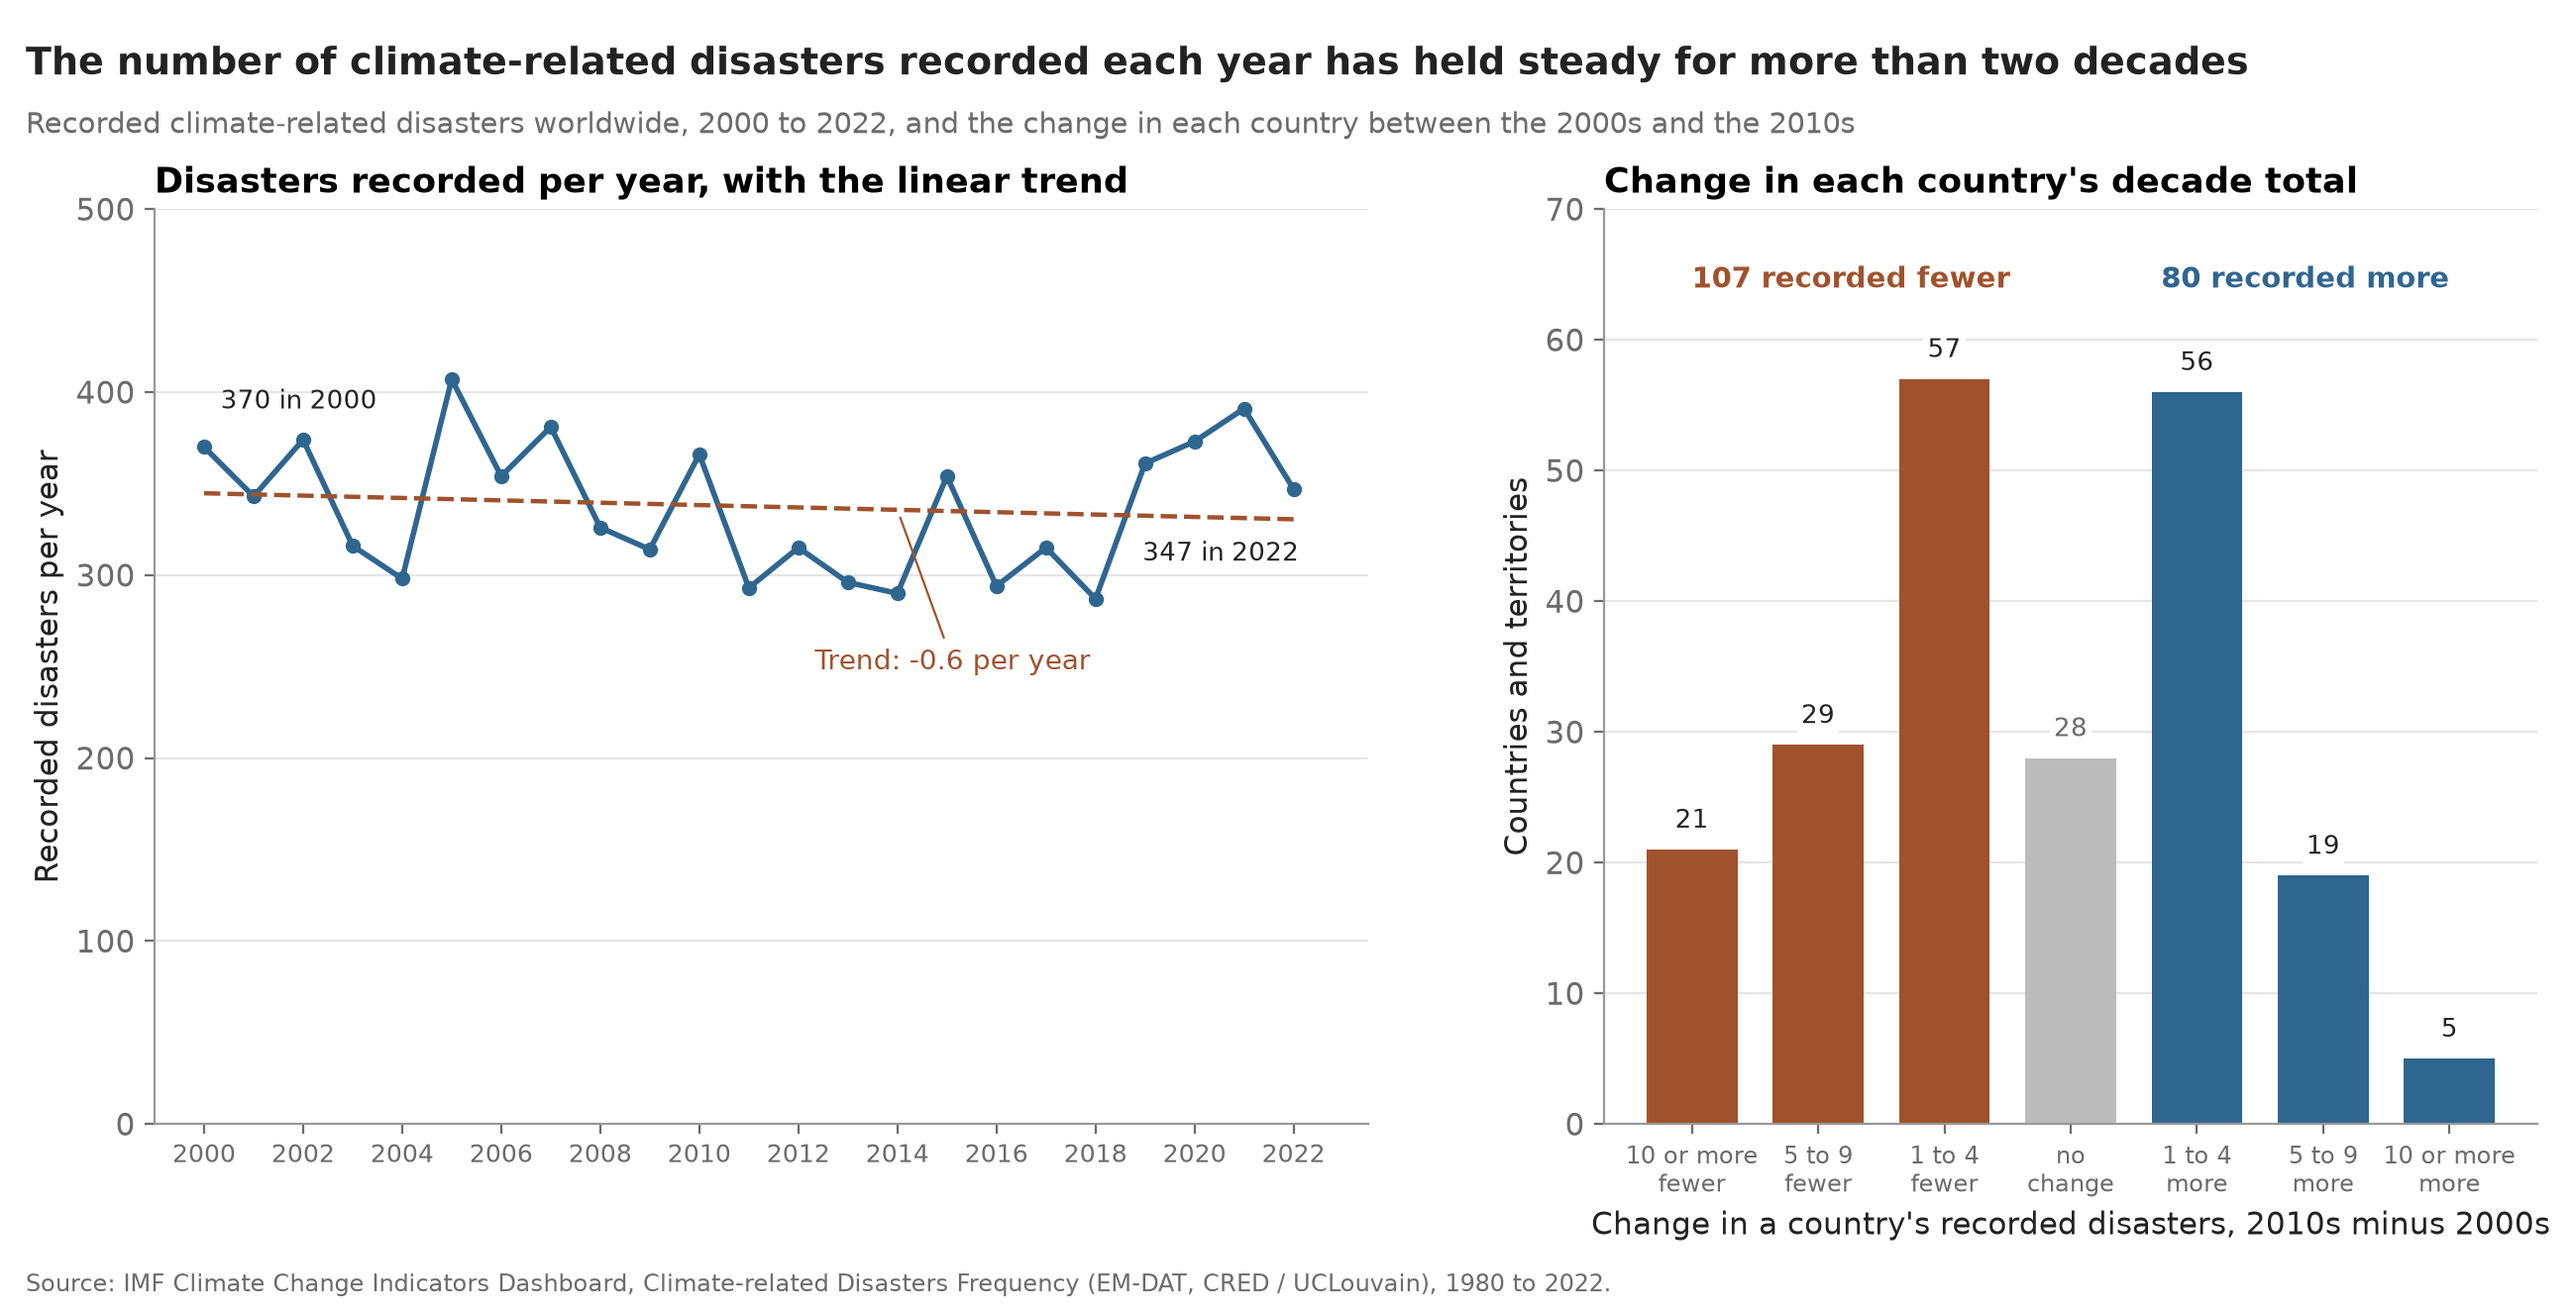
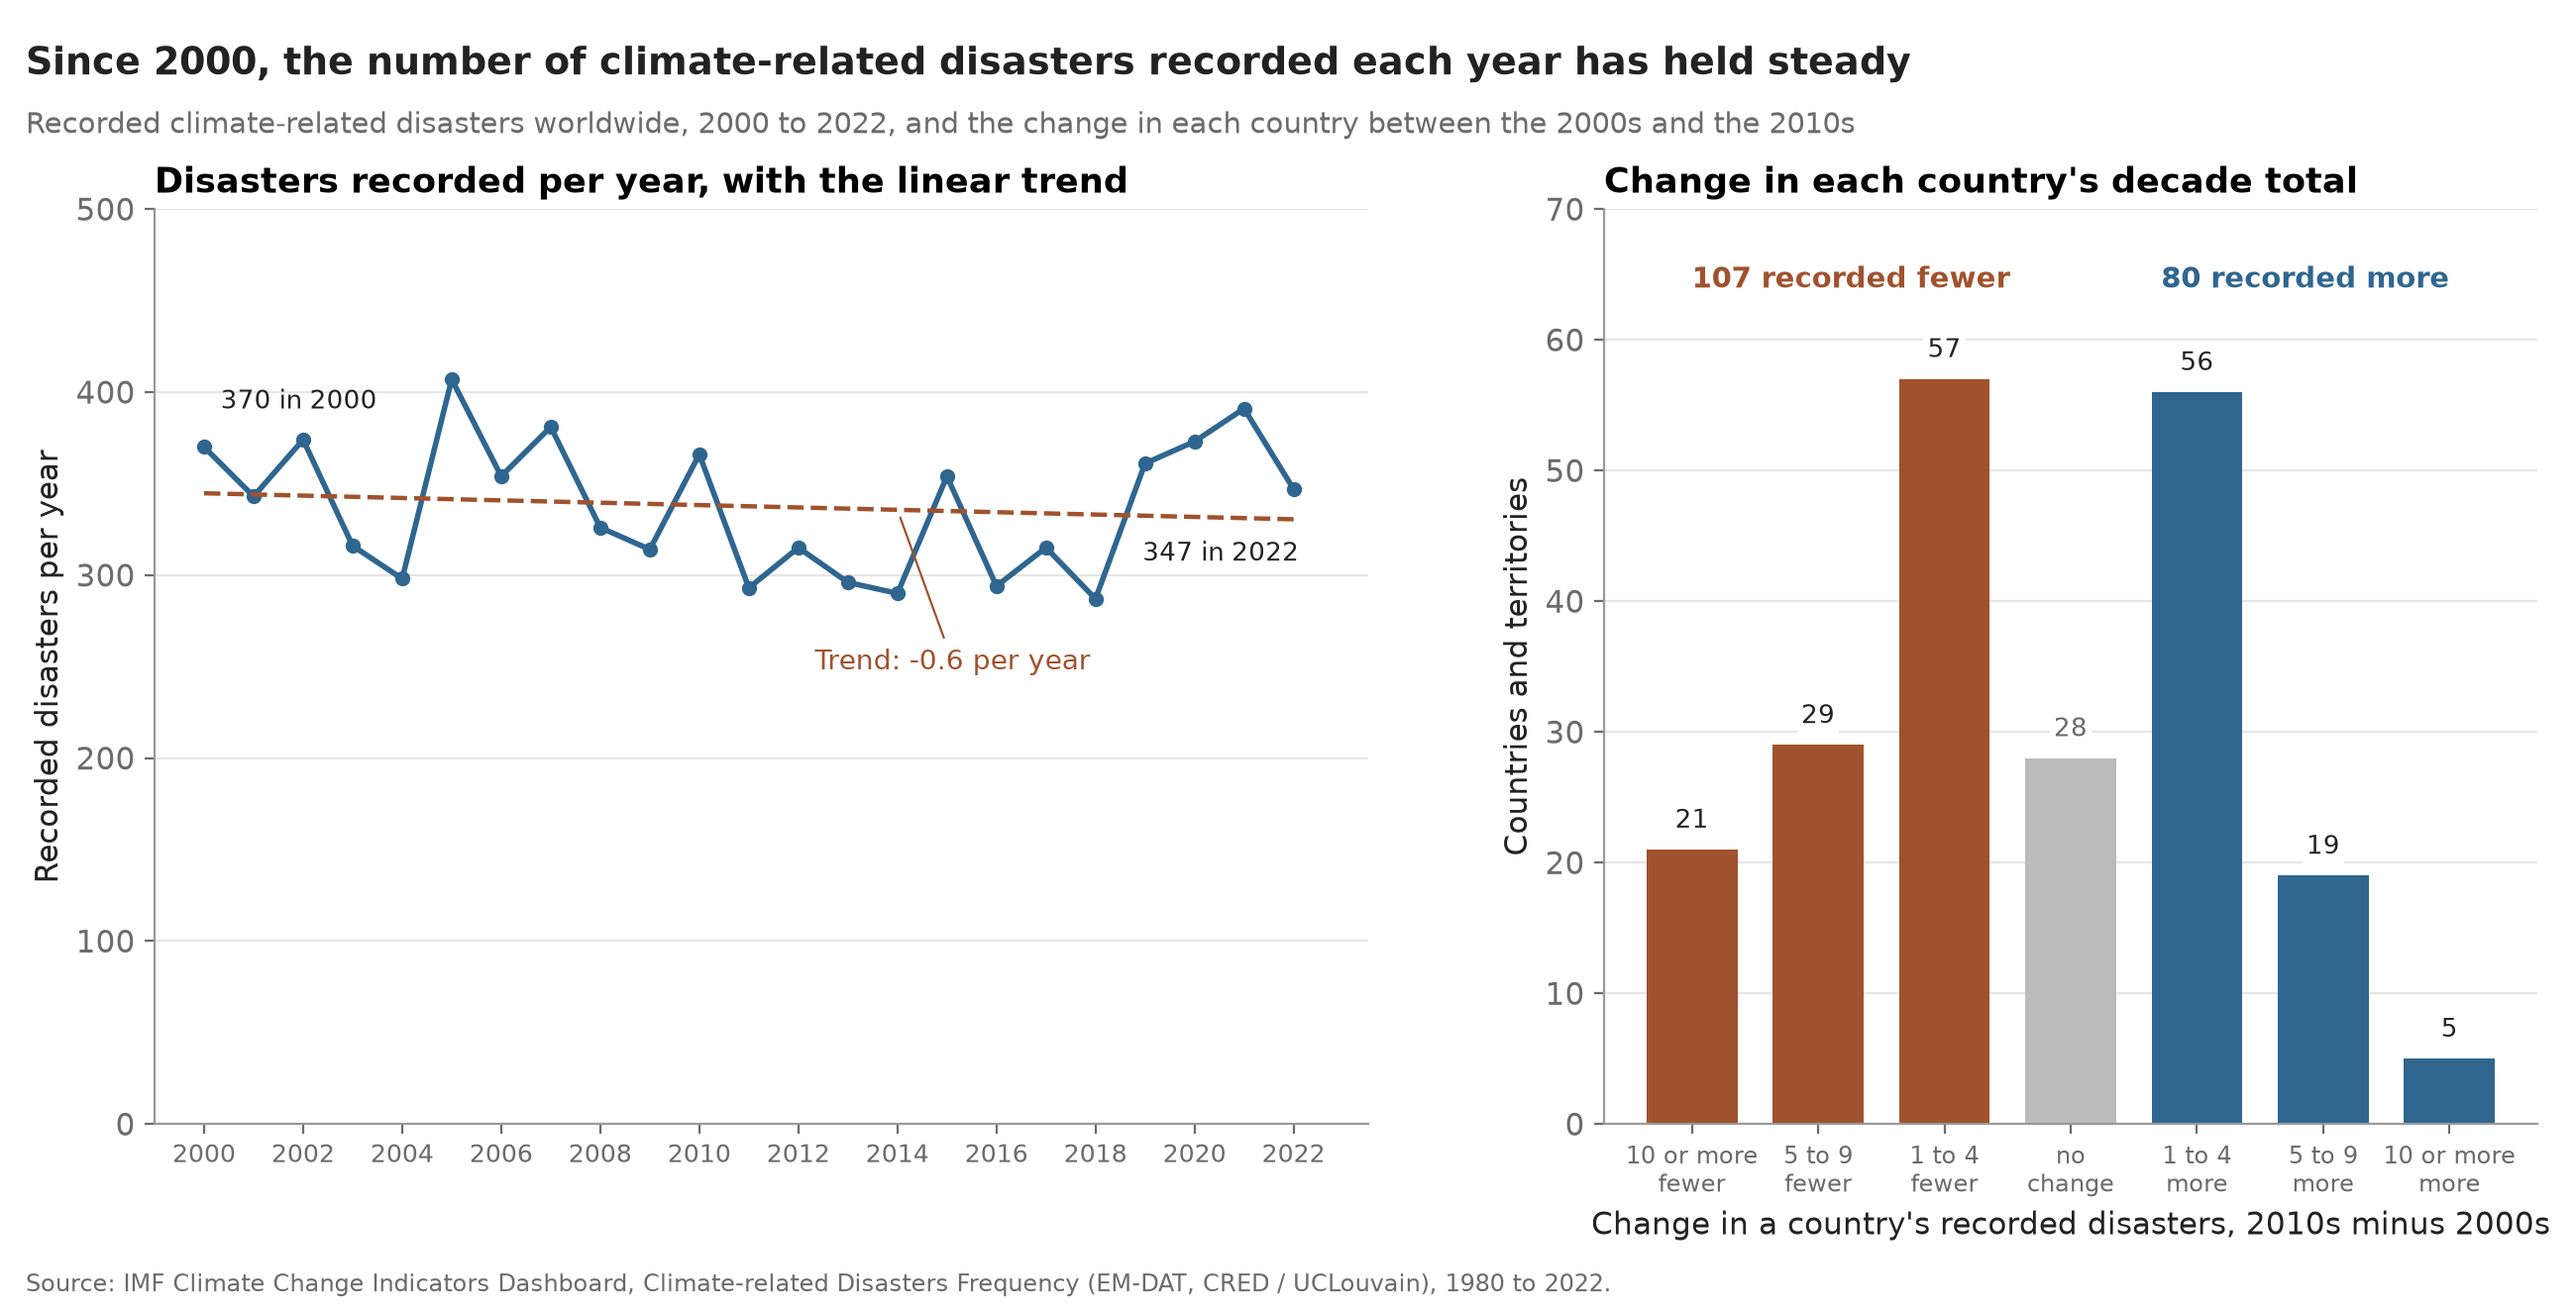
Project 2 alt: Codex 14/14 pass (readable type ramp, recorded wording, since-2000 title)

Changed region(s): [[0.0, 0.0311, 0.8723, 0.0621]]

diff --git a/projects/project2-alt/index.html b/projects/project2-alt/index.html
@@ -279,11 +279,12 @@
                         objection.
                     </li>
                     <li>
-                        <strong>Title: "Climate-related disasters are three times as frequent as in the early 1980s, even in the same 82 countries" (score: -0.5).</strong>
+                        <strong>Title: "Recorded climate-related disasters are three times as frequent as in the early 1980s, even in the same 82 countries" (score: -0.5).</strong>
                         Both claims are true of what is drawn. For all countries it is 370 against 122 per year. That
-                        works out to 3.0 times. For the 82 countries with records in every period the ratio is 2.8 times. That comes from 297 against 104. The wording is calm and the title has no cutoff on the scope. Still, "frequent"
-                        suggests real events, and all we have are records. The title also does not say that a three-
-                        year mean is compared with a five-year mean. The subtitle does name the averaging, so we
+                        works out to 3.0 times. For the 82 countries with records in every period the ratio is 2.8 times. That comes from 297 against 104. The wording is calm, and "recorded" keeps it to what the table counts. Still, "even in the same
+                        82 countries" makes the rise sound like it cannot be a reporting effect, when those 82 were picked
+                        because they had records, and their 2.8 rounds up to "three times". The title also does not say
+                        that a three-year mean is compared with a five-year mean. The subtitle does name the averaging, so we
                         scored it as mildly deceptive. We also thought about "more often recorded". We dropped it
                         because it states the claim more weakly than the proposition.
                     </li>
@@ -354,13 +355,13 @@
                         the change in the world total, but that would hide how many countries moved each way.
                     </li>
                     <li>
-                        <strong>Title: "The number of climate-related disasters recorded each year has held steady for more than two decades" (score: -0.5).</strong>
-                        The claim is true of the 23 years shown and the wording is calm. "Recorded" is also more
-                        careful than "frequent" in the FOR title. Still, "more than two decades" names a length of
-                        time, which makes the window sound like all the history there is. A reader who does not know
-                        the earlier years has no reason to ask what came before. The subtitle gives the years, so we
-                        scored it as mildly deceptive. We also thought about "since 2000". We dropped it because it
-                        makes people ask why the series starts there.
+                        <strong>Title: "Since 2000, the number of climate-related disasters recorded each year has held steady" (score: -0.5).</strong>
+                        The claim is true of the 23 years shown and the wording is calm. Both titles say "recorded", so
+                        neither claims more than the table counts. "Since 2000" is honest about the window, but it
+                        quietly treats 2000 as a natural starting point. A reader who does not know the earlier years
+                        has no reason to ask what came before, so we scored it as mildly deceptive. We also thought
+                        about "for more than two decades". We dropped it because it makes the window sound like all
+                        the history there is, which a careful reader would catch.
                     </li>
                 </ul>
             </section>

diff --git a/projects/project2-alt/make_charts.py b/projects/project2-alt/make_charts.py
@@ -29,7 +29,7 @@ TYPES = ["Flood", "Storm", "Drought", "Extreme temperature", "Landslide", "Wildf
 
 BLUE = "#2f6690"  # primary series colour, shared by both charts
 SIENNA = "#a0522d"  # secondary colour (decline / contrast), not an alarm red
-TYPE_COLOURS = ["#2f6690", "#5d8aa8", "#8fb0c4", "#b9cbd6", "#d6dfe5", "#ebeff2"]
+TYPE_COLOURS = ["#173f5f", "#2f6690", "#5689ad", "#81a9c5", "#a9c5d8", "#cfdde8"]
 INK = "#222222"
 MUTED = "#6b6b6b"
 GRID = "#e6e6e6"
@@ -183,7 +183,7 @@ def chart_for(s: dict) -> None:
     fig = plt.figure(figsize=(13, 6.6), dpi=200)
     headline(
         fig,
-        "Climate-related disasters are three times as frequent as in the early 1980s, even in the same 82 countries",
+        "Recorded climate-related disasters are three times as frequent as in the early 1980s, even in the same 82 countries",
         "Recorded climate-related disasters worldwide, averaged within five-year periods, 1980 to 2022",
     )
     gs = fig.add_gridspec(1, 2, width_ratios=[1.35, 1], left=0.06, right=0.985, top=0.84, bottom=0.14, wspace=0.22)
@@ -242,7 +242,7 @@ def chart_against(s: dict) -> None:
     fig = plt.figure(figsize=(13, 6.6), dpi=200)
     headline(
         fig,
-        "The number of climate-related disasters recorded each year has held steady for more than two decades",
+        "Since 2000, the number of climate-related disasters recorded each year has held steady",
         "Recorded climate-related disasters worldwide, 2000 to 2022, and the change in each country between the 2000s and the 2010s",
     )
     gs = fig.add_gridspec(1, 2, width_ratios=[1.3, 1], left=0.06, right=0.985, top=0.84, bottom=0.14, wspace=0.22)
